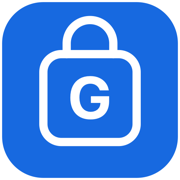
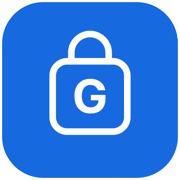
Add files via upload

Changed region(s): [[0.1944, 0.0833, 0.8056, 0.8333], [0.3889, 0.4167, 0.6111, 0.6667]]

diff --git a/index.html b/index.html
@@ -1,9 +1,9 @@
 <!doctype html>
-<html lang="de"><head><meta charset="utf-8"><meta http-equiv="Content-Security-Policy" content="default-src 'self'; script-src 'self'; style-src 'self' 'unsafe-inline'; connect-src 'self' https://ydmkutpcrurzsypszrob.supabase.co wss://ydmkutpcrurzsypszrob.supabase.co; img-src 'self' data:; object-src 'none'; base-uri 'self'; form-action 'self'; frame-src 'self'; worker-src 'self'"><meta name="referrer" content="no-referrer"><meta name="viewport" content="width=device-width,initial-scale=1,viewport-fit=cover"><meta name="theme-color" content="#1769e0"><meta name="description" content="Gemeinsame Einkaufslisten und Warenkatalog."><link rel="icon" href="icon.svg"><link rel="apple-touch-icon" href="icon-180.png"><link rel="manifest" href="manifest.webmanifest"><link rel="stylesheet" href="styles.css?v=25"><title>GrevingShop. – zusammen einkaufen</title></head>
+<html lang="de"><head><meta charset="utf-8"><meta http-equiv="Content-Security-Policy" content="default-src 'self'; script-src 'self'; style-src 'self' 'unsafe-inline'; connect-src 'self' https://ydmkutpcrurzsypszrob.supabase.co wss://ydmkutpcrurzsypszrob.supabase.co; img-src 'self' data:; object-src 'none'; base-uri 'self'; form-action 'self'; frame-src 'self'; worker-src 'self'"><meta name="referrer" content="no-referrer"><meta name="viewport" content="width=device-width,initial-scale=1,viewport-fit=cover"><meta name="theme-color" content="#1769e0"><meta name="description" content="Gemeinsame Einkaufslisten und Warenkatalog."><link rel="icon" href="icon.svg"><link rel="apple-touch-icon" href="icon-180.png"><link rel="manifest" href="manifest.webmanifest"><link rel="stylesheet" href="styles.css?v=26"><title>GrevingShop. – zusammen einkaufen</title></head>
 <body><div class="app-shell"><header class="topbar"><button class="menu-toggle" id="menuToggle" type="button" aria-label="Menü öffnen" aria-expanded="false" aria-controls="appMenu"><svg viewBox="0 0 24 24" aria-hidden="true"><path d="M4 6h16M4 12h16M4 18h16"/></svg></button><div class="brand"><button class="brand-mark" id="avatar" aria-label="Konto und Anmeldung">?</button><a class="brand-name" href="#">GrevingShop<span class="dot">.</span></a></div><button class="icon-button install-button" id="installApp" type="button" aria-label="App installieren" title="App installieren"><svg viewBox="0 0 24 24" aria-hidden="true"><path d="M12 3v12m-4-4 4 4 4-4M5 15v5h14v-5"/></svg></button><button class="icon-button update-button" id="updateApp" type="button" aria-label="Neue App-Version verfügbar" title="Neue App-Version verfügbar" hidden><svg viewBox="0 0 24 24" aria-hidden="true"><rect x="5" y="2" width="14" height="20" rx="3"/><path d="M9 18h6M16 9a4 4 0 1 0 0 4M16 6v3h-3"/></svg><span class="update-dot" aria-hidden="true"></span></button><button class="icon-button sync-btn" id="account" aria-label="Jetzt synchronisieren" title="Jetzt synchronisieren"><svg viewBox="0 0 24 24" aria-hidden="true"><path d="M20 11a8 8 0 0 0-14.9-3M4 5v3h3M4 13a8 8 0 0 0 14.9 3M20 19v-3h-3"/></svg><span id="cloud-check" hidden>✓</span></button></header><aside id="updateNotice" class="update-notice" aria-label="App-Aktualisierung" hidden><div><strong>Neue App-Version verfügbar</strong><p>Aktualisieren, wenn es für dich passt.</p></div><div class="update-actions"><button class="button" id="applyUpdate" type="button">Jetzt aktualisieren</button><button class="button secondary" id="deferUpdate" type="button">Später</button></div></aside><main id="app" tabindex="-1"></main><nav class="menu-panel" id="appMenu" aria-label="Hauptnavigation" hidden>
 <button data-view="lists" class="active" aria-current="page"><span class="menu-link-inner"><svg class="menu-icon shared-nav-icon" data-icon="lists" viewBox="0 0 24 24" aria-hidden="true"><path d="M9 6h11M9 12h11M9 18h11"/><circle cx="4" cy="6" r="1"/><circle cx="4" cy="12" r="1"/><circle cx="4" cy="18" r="1"/></svg><span>Meine Listen</span></span></button>
 <button data-view="archive"><span class="menu-link-inner"><svg viewBox="0 0 24 24" aria-hidden="true"><rect x="3" y="3" width="18" height="5" rx="1.5"/><path d="M5 8v12h14V8M9 12h6"/></svg><span>Archiv</span></span></button>
 <button data-view="catalog"><span class="menu-link-inner"><svg class="menu-icon shared-nav-icon" data-icon="catalog" viewBox="0 0 24 24" aria-hidden="true"><path d="M4 4h12a3 3 0 0 1 3 3v14H7a3 3 0 0 1-3-3V4Zm0 14a3 3 0 0 1 3-3h12M8 8h7M8 11h5"/></svg><span>Warenkatalog</span></span></button>
 <button data-view="family"><span class="menu-link-inner"><svg viewBox="0 0 24 24" aria-hidden="true"><circle cx="9" cy="8" r="3"/><path d="M3 21v-2a6 6 0 0 1 12 0v2M16 5a3 3 0 0 1 0 6M21 21v-2a6 6 0 0 0-4-5.65"/></svg><span>Familie</span></span></button>
 <button data-view="settings"><span class="menu-link-inner"><svg class="menu-icon shared-nav-icon" data-icon="settings" viewBox="0 0 24 24" aria-hidden="true"><path d="M3 5h3m6 0h9M3 12h10m6 0h2M3 19h3m6 0h9"/><circle cx="9" cy="5" r="3"/><circle cx="16" cy="12" r="3"/><circle cx="9" cy="19" r="3"/></svg><span>Settings</span></span></button>
-</nav></div><dialog id="modal"></dialog><div id="toast" role="status" aria-live="polite"></div><script src="supabase.js"></script><script src="app.js?v=25"></script></body></html>
+</nav></div><dialog id="modal"></dialog><div id="toast" role="status" aria-live="polite"></div><script src="supabase.js"></script><script src="app.js?v=26"></script></body></html>

diff --git a/s24fe.html b/s24fe.html
@@ -1,4 +1,4 @@
 <!doctype html>
 <html lang="de"><head><meta charset="utf-8"><meta name="viewport" content="width=device-width,initial-scale=1"><title>GrevingShop. · Galaxy S24 FE Vorschau</title><style>
 *{box-sizing:border-box}body{margin:0;background:#edf1f7;color:#142846;font:14px/1.5 system-ui,sans-serif;min-height:100dvh;display:flex;flex-direction:column;align-items:center;padding:24px 12px 30px}h1{font-size:20px;letter-spacing:-.5px;margin:0}p{margin:5px 0 16px;color:#536883;text-align:center;max-width:440px;font-size:12px}.phone{width:400px;height:848px;padding:8px;background:#20252b;border-radius:34px;box-shadow:0 20px 60px #14284625;flex-shrink:0}iframe{display:block;width:384px;height:832px;border:0;border-radius:26px;background:#f2f6ff}.foot{margin-top:18px}a{color:#126bff;font-weight:650}button{font:inherit;padding:9px 14px;border-radius:10px;border:1px solid #cad9f2;background:white;color:#142846;cursor:pointer}.controls{display:flex;gap:10px;margin-bottom:16px}@media(max-width:420px){body{padding:12px 0}.phone{width:100%;height:calc(100dvh - 180px);padding:0;border-radius:0;min-height:600px}iframe{width:100%;height:100%;border-radius:0}}
-</style></head><body><h1>GrevingShop. · Galaxy S24 FE</h1><p>Interaktive Vorschau mit 384 × 832 CSS-Pixeln.<br>Die tatsächliche Ansicht kann je nach Bildschirmzoom und Browserleisten abweichen.</p><div class="controls"><button id="home">Startseite</button><button id="reload">Neu laden</button><a href="./" target="_blank" rel="noopener">App öffnen ↗</a></div><div class="phone"><iframe id="phone" src="./?preview=25" title="GrevingShop. in der Galaxy-S24-FE-Vorschau" allow="screen-wake-lock"></iframe></div><p class="foot">Die echte App läuft innerhalb des Smartphone-Rahmens.<br>Du kannst sie hier bedienen und durch die Listen scrollen.</p><script>const phone=document.getElementById('phone');const reload=()=>{phone.src='./?preview=25&refresh='+Date.now()};document.getElementById('home').onclick=reload;document.getElementById('reload').onclick=reload;</script></body></html>
+</style></head><body><h1>GrevingShop. · Galaxy S24 FE</h1><p>Interaktive Vorschau mit 384 × 832 CSS-Pixeln.<br>Die tatsächliche Ansicht kann je nach Bildschirmzoom und Browserleisten abweichen.</p><div class="controls"><button id="home">Startseite</button><button id="reload">Neu laden</button><a href="./" target="_blank" rel="noopener">App öffnen ↗</a></div><div class="phone"><iframe id="phone" src="./?preview=26" title="GrevingShop. in der Galaxy-S24-FE-Vorschau" allow="screen-wake-lock"></iframe></div><p class="foot">Die echte App läuft innerhalb des Smartphone-Rahmens.<br>Du kannst sie hier bedienen und durch die Listen scrollen.</p><script>const phone=document.getElementById('phone');const reload=()=>{phone.src='./?preview=26&refresh='+Date.now()};document.getElementById('home').onclick=reload;document.getElementById('reload').onclick=reload;</script></body></html>

diff --git a/service-worker.js b/service-worker.js
@@ -1,7 +1,7 @@
-const VERSION='25';
-const CACHE='grevingshop-shell-v25';
+const VERSION='26';
+const CACHE='grevingshop-shell-v26';
 const CONTROL='grevingshop-update-control';
-const ASSETS=['./','./index.html','./styles.css?v=25','./app.js?v=25','./icon.svg','./icon-180.png','./icon-192.png','./icon-512.png','./manifest.webmanifest','./supabase.js'];
+const ASSETS=['./','./index.html','./styles.css?v=26','./app.js?v=26','./icon.svg','./icon-180.png','./icon-192.png','./icon-512.png','./manifest.webmanifest','./supabase.js'];
 const approvedKey=()=>new URL('./__approved_app_cache__',self.registration.scope).href;
 async function approvedCache(){const state=await caches.open(CONTROL),saved=await state.match(approvedKey());return saved?await saved.text():CACHE}
 async function setApproved(name){const state=await caches.open(CONTROL);await state.put(approvedKey(),new Response(name))}

diff --git a/app.js b/app.js
@@ -1,5 +1,5 @@
 'use strict';
-const APP_VERSION='25';
+const APP_VERSION='26';
 const FAMILY={};
 const catalogSelection=new Set();let catalogTarget='';
 let updateRegistration=null,updateWorker=null,availableVersion='',updateApplying=false,updateReloaded=false;

diff --git a/PRUEFBERICHT.md b/PRUEFBERICHT.md
@@ -108,3 +108,5 @@ Eine Testtransaktion mit `authenticated`-Rolle und wechselnden JWT-Claims wurde 
 Nur die aktuelle Datei **GrevingShop-main-root.zip** wird im Projektordner vorgehalten. Sie enthält alle benötigten App-Dateien direkt auf oberster Ebene für GitHub Pages **main → / (root)** sowie README, Upload-Anleitung, diesen Bericht und SQL-Vorlagen mit Platzhaltern.
 
 Version 25: App-Symbol C (Einkaufstasche mit G) in allen Größen, weiterhin Blau #1769e0. Im Warenkatalog entfällt der einzelne „+ Liste“-Button; Produkte werden über die gemeinsame Auswahl übernommen. Produktname und Menge stehen nebeneinander, Notizen darunter.
+
+Version 26: Tasche und G im App-Symbol um 20 % um den Mittelpunkt verkleinert. Blauer Hintergrund (#1769e0) unverändert; Icons mit 180, 192 und 512 Pixeln erneuert.

diff --git a/README.md b/README.md
@@ -217,3 +217,5 @@ Version 23: Der Installieren-Button ist im PWA-Fenster bereits per CSS vor dem J
 Version 24: Das Update-Symbol verwendet die gewählte Variante G – Smartphone mit Kreis-Pfeil. Der farbige Hinweis-Punkt bleibt erhalten.
 
 Version 25: App-Symbol C (Einkaufstasche mit G) in allen Größen, weiterhin Blau #1769e0. Im Warenkatalog entfällt der einzelne „+ Liste“-Button; Produkte werden über die gemeinsame Auswahl übernommen. Produktname und Menge stehen nebeneinander, Notizen darunter.
+
+Version 26: Tasche und G im App-Symbol um 20 % um den Mittelpunkt verkleinert. Blauer Hintergrund (#1769e0) unverändert; Icons mit 180, 192 und 512 Pixeln erneuert.
